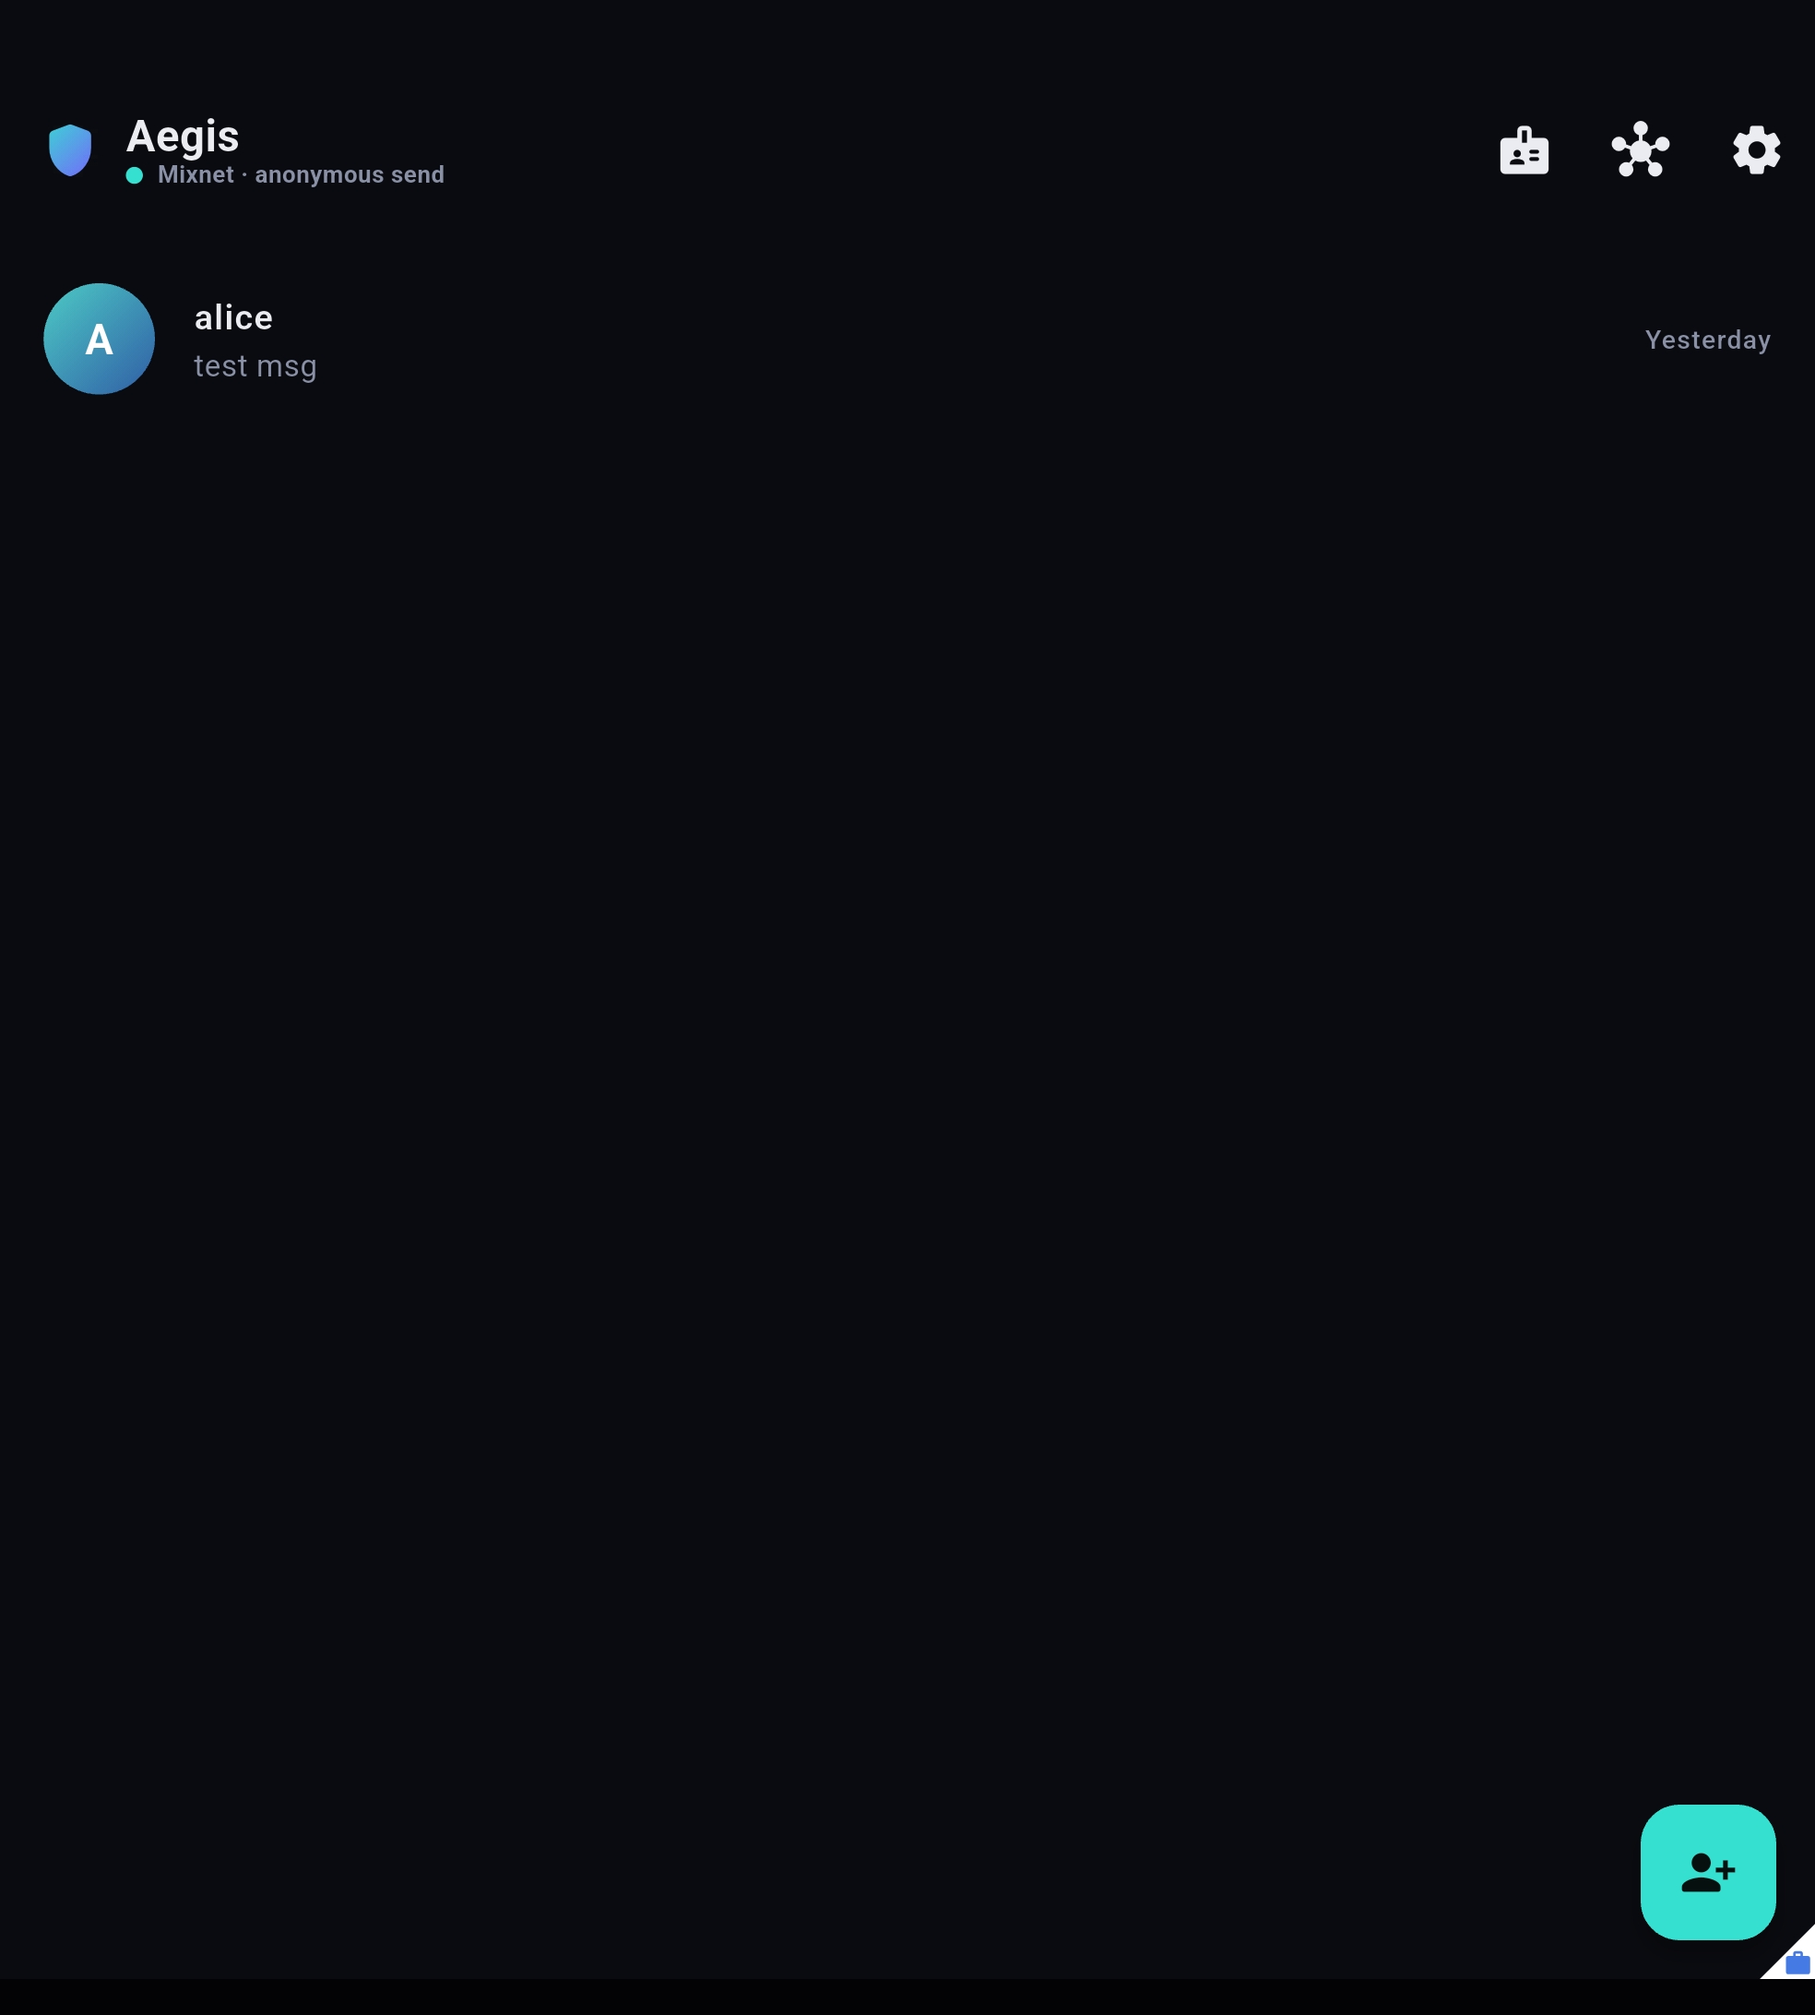
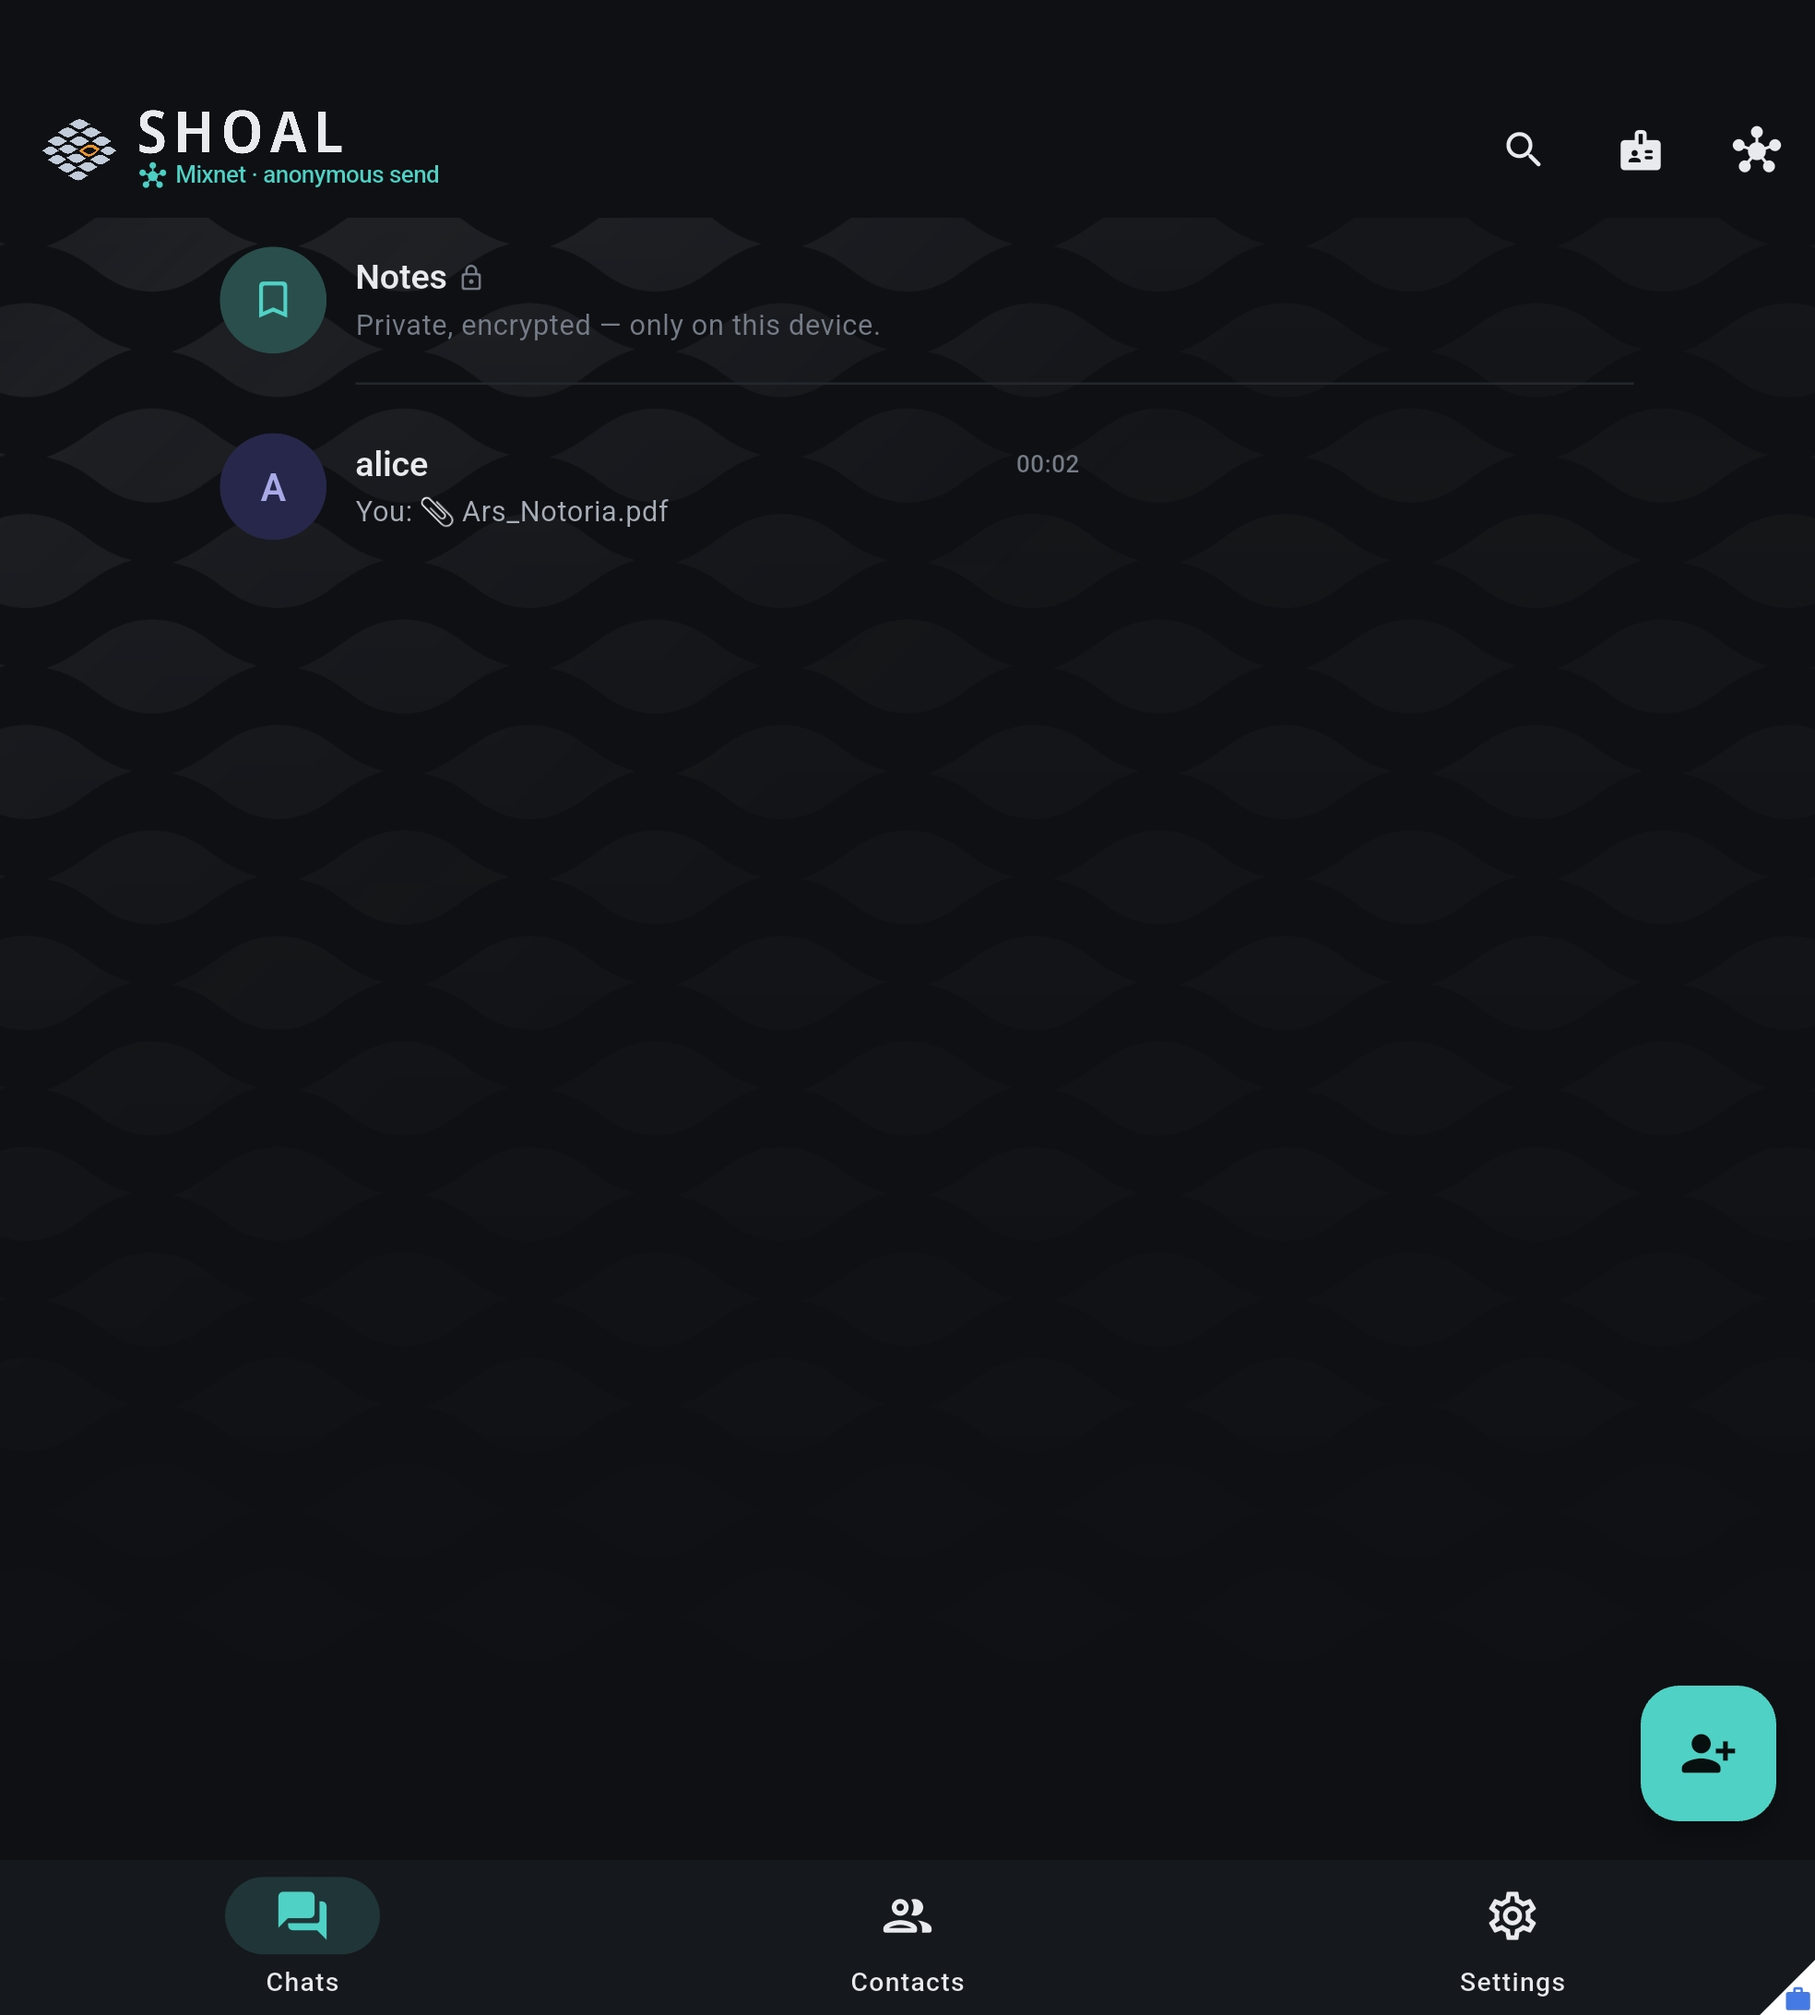
Refresh the screenshots, and fix the flare colour they exposed
Six new shots of the app as it actually is: the scale field, the bottom
bar, sectioned Settings, the mark on the lock screen. The old set still
showed the pre-rename UI, and three of its screens no longer exist in that
form -- Settings is sections now, not one long list -- so
settings-identity/privacy/security are replaced by settings.jpg, and
contacts.jpg and add-contact.jpg are added for the two screens that had
none.

All six are 1968x2184, which is what the markup already declares, so
nothing about the layout had to change.

The screenshots also showed me a bug. The flare in the scale field came out
TEAL, not amber: it was drawn in ShoalColor.accent, and the app's accent is
#4FD1C5 while the mark's amber is #F0972A. Teal is the one colour that cell
must never be -- the whole point of it is being the one fish that is not the
school, in the brand's colour rather than the interface's.

So the flare now uses a separate token, ShoalColor.markAccent. Keeping it
distinct from accent is the actual fix: accent is the interface's action
colour and is free to change with the theme, while this is the logo's
pigment and must not follow it.

One thing to know when reading these: docs/screenshots/contacts.jpg was
taken before that fix, so the flare in it is still teal. It is the clearest
picture of the feature working, and I would rather ship an honest slightly
stale image than pretend I could re-shoot a device I do not have.

diff --git a/docs/ru/index.html b/docs/ru/index.html
@@ -106,7 +106,7 @@
 
 <section id="shots">
   <h2>Приложение</h2>
-  <div class="shots"><figure><img src="../screenshots/chats.jpg" alt="Список переписок Shoal на Android" width="1968" height="2184" loading="lazy" decoding="async"></figure><figure><img src="../screenshots/settings-security.jpg" alt="Настройки безопасности Shoal: блокировка, пароль под принуждением, экстренное стирание" width="1968" height="2184" loading="lazy" decoding="async"></figure><figure><img src="../screenshots/settings-privacy.jpg" alt="Настройки приватности Shoal: цепочка Tor и SOCKS5, блокировка скриншотов" width="1968" height="2184" loading="lazy" decoding="async"></figure><figure><img src="../screenshots/nodes.jpg" alt="Вид сети Shoal со списком найденных микс-узлов" width="1968" height="2184" loading="lazy" decoding="async"></figure></div>
+  <div class="shots"><figure><img src="../screenshots/chats.jpg" alt="Список переписок Shoal на Android" width="1968" height="2184" loading="lazy" decoding="async"></figure><figure><img src="../screenshots/contacts.jpg" alt="Список контактов Shoal, у каждого показан его Shoal ID" width="1968" height="2184" loading="lazy" decoding="async"></figure><figure><img src="../screenshots/lock.jpg" alt="Экран блокировки Shoal: пароль, биометрия, удержание для стирания" width="1968" height="2184" loading="lazy" decoding="async"></figure><figure><img src="../screenshots/settings.jpg" alt="Настройки Shoal: код для обмена, безопасность, приватность, сеть" width="1968" height="2184" loading="lazy" decoding="async"></figure><figure><img src="../screenshots/add-contact.jpg" alt="Добавление контакта Shoal вставкой его кода" width="1968" height="2184" loading="lazy" decoding="async"></figure><figure><img src="../screenshots/nodes.jpg" alt="Вид сети Shoal со списком найденных микс-узлов" width="1968" height="2184" loading="lazy" decoding="async"></figure></div>
 </section>
 
 <section id="fdroid">

diff --git a/docs/index.html b/docs/index.html
@@ -106,7 +106,7 @@
 
 <section id="shots">
   <h2>The app</h2>
-  <div class="shots"><figure><img src="screenshots/chats.jpg" alt="The Shoal conversation list on Android" width="1968" height="2184" loading="lazy" decoding="async"></figure><figure><img src="screenshots/settings-security.jpg" alt="Shoal security settings: app lock, duress password, panic wipe" width="1968" height="2184" loading="lazy" decoding="async"></figure><figure><img src="screenshots/settings-privacy.jpg" alt="Shoal privacy settings: Tor and SOCKS5 proxy chain, screenshot blocking" width="1968" height="2184" loading="lazy" decoding="async"></figure><figure><img src="screenshots/nodes.jpg" alt="The Shoal network view, listing discovered mix nodes" width="1968" height="2184" loading="lazy" decoding="async"></figure></div>
+  <div class="shots"><figure><img src="screenshots/chats.jpg" alt="The Shoal conversation list on Android" width="1968" height="2184" loading="lazy" decoding="async"></figure><figure><img src="screenshots/contacts.jpg" alt="The Shoal contact list, each entry showing its Shoal ID" width="1968" height="2184" loading="lazy" decoding="async"></figure><figure><img src="screenshots/lock.jpg" alt="The Shoal lock screen: password, biometrics, hold to wipe" width="1968" height="2184" loading="lazy" decoding="async"></figure><figure><img src="screenshots/settings.jpg" alt="Shoal settings: share code, security, privacy, network" width="1968" height="2184" loading="lazy" decoding="async"></figure><figure><img src="screenshots/add-contact.jpg" alt="Adding a Shoal contact by pasting their share code" width="1968" height="2184" loading="lazy" decoding="async"></figure><figure><img src="screenshots/nodes.jpg" alt="The Shoal network view, listing discovered mix nodes" width="1968" height="2184" loading="lazy" decoding="async"></figure></div>
 </section>
 
 <section id="fdroid">

diff --git a/app/lib/design/tokens.dart b/app/lib/design/tokens.dart
@@ -51,6 +51,16 @@ class ShoalColor {
 
   /// The single accent: a restrained teal. Not neon, not a gradient.
   static const accent = Color(0xFF4FD1C5);
+
+  /// The mark's amber — the one fish that is not the school.
+  ///
+  /// Deliberately NOT [accent]. Accent is the interface's action colour and can
+  /// change with the theme; this is the logo's own pigment, and the scale
+  /// field's flare has to stay the colour the mark is drawn in. Using accent
+  /// there made the flare teal, which is the one thing it must never be: the
+  /// whole point of that cell is that it is not the same as everything around
+  /// it, in the brand's colour rather than the UI's.
+  static const markAccent = Color(0xFFF0972A);
   static const accentMuted = Color(0xFF2A4E4C);
 
   // Status. Used with an icon or label, never alone.

diff --git a/app/lib/brand.dart b/app/lib/brand.dart
@@ -363,8 +363,8 @@ class _AmberCell extends StatelessWidget {
               decoration: BoxDecoration(
                 gradient: RadialGradient(
                   colors: [
-                    ShoalColor.accent.withValues(alpha: 0.30),
-                    ShoalColor.accent.withValues(alpha: 0.0),
+                    ShoalColor.markAccent.withValues(alpha: 0.30),
+                    ShoalColor.markAccent.withValues(alpha: 0.0),
                   ],
                 ),
               ),
@@ -375,7 +375,7 @@ class _AmberCell extends StatelessWidget {
         // in the theme instead of in the PNG.
         ColorFiltered(
           colorFilter: const ColorFilter.mode(
-            ShoalColor.accent,
+            ShoalColor.markAccent,
             BlendMode.srcIn,
           ),
           child: Image.asset(

diff --git a/docs/build.py b/docs/build.py
@@ -209,8 +209,10 @@ LANGS = {
         ],
         "shots_h2": "The app",
         "shots": [("chats.jpg", "The Shoal conversation list on Android"),
-                  ("settings-security.jpg", "Shoal security settings: app lock, duress password, panic wipe"),
-                  ("settings-privacy.jpg", "Shoal privacy settings: Tor and SOCKS5 proxy chain, screenshot blocking"),
+                  ("contacts.jpg", "The Shoal contact list, each entry showing its Shoal ID"),
+                  ("lock.jpg", "The Shoal lock screen: password, biometrics, hold to wipe"),
+                  ("settings.jpg", "Shoal settings: share code, security, privacy, network"),
+                  ("add-contact.jpg", "Adding a Shoal contact by pasting their share code"),
                   ("nodes.jpg", "The Shoal network view, listing discovered mix nodes")],
         "node_h2": "Run a node",
         "node_lead": (
@@ -451,8 +453,10 @@ LANGS = {
         ],
         "shots_h2": "Приложение",
         "shots": [("chats.jpg", "Список переписок Shoal на Android"),
-                  ("settings-security.jpg", "Настройки безопасности Shoal: блокировка, пароль под принуждением, экстренное стирание"),
-                  ("settings-privacy.jpg", "Настройки приватности Shoal: цепочка Tor и SOCKS5, блокировка скриншотов"),
+                  ("contacts.jpg", "Список контактов Shoal, у каждого показан его Shoal ID"),
+                  ("lock.jpg", "Экран блокировки Shoal: пароль, биометрия, удержание для стирания"),
+                  ("settings.jpg", "Настройки Shoal: код для обмена, безопасность, приватность, сеть"),
+                  ("add-contact.jpg", "Добавление контакта Shoal вставкой его кода"),
                   ("nodes.jpg", "Вид сети Shoal со списком найденных микс-узлов")],
         "node_h2": "Поднять свой узел",
         "node_lead": (

diff --git a/README.md b/README.md
@@ -140,13 +140,13 @@ The Android app — Android-first, anonymous by default, private under pressure.
 <table>
   <tr>
     <td width="33%"><img src="docs/screenshots/chats.jpg" alt="Chats — Mixnet, anonymous send"/><br/><sub><b>Chats.</b> Anonymous send over the mixnet.</sub></td>
+    <td width="33%"><img src="docs/screenshots/contacts.jpg" alt="Contacts — each entry shows its Shoal ID"/><br/><sub><b>Contacts.</b> Every entry carries the Shoal ID it belongs to.</sub></td>
     <td width="33%"><img src="docs/screenshots/lock.jpg" alt="Lock screen — password, biometrics, hold to wipe"/><br/><sub><b>Lock screen.</b> Password or biometrics; hold to wipe everything.</sub></td>
-    <td width="33%"><img src="docs/screenshots/nodes.jpg" alt="Network nodes — add your own, route only through them"/><br/><sub><b>Nodes.</b> Add your own by host:port; route only through them.</sub></td>
   </tr>
   <tr>
-    <td width="33%"><img src="docs/screenshots/settings-identity.jpg" alt="Settings — profile, app password, duress password, biometric unlock"/><br/><sub><b>Identity & locks.</b> Share code, app password, duress/decoy, biometrics.</sub></td>
-    <td width="33%"><img src="docs/screenshots/settings-privacy.jpg" alt="Settings — recovery phrase, notifications, block screenshots, background, proxy/Tor"/><br/><sub><b>Privacy.</b> Recovery phrase, screenshot block, 24/7 background, SOCKS5/Tor.</sub></td>
-    <td width="33%"><img src="docs/screenshots/settings-security.jpg" alt="Settings — disguise, run a node, panic wipe, reset identity"/><br/><sub><b>Under pressure.</b> Disguise as a calculator, panic wipe, reset.</sub></td>
+    <td width="33%"><img src="docs/screenshots/settings.jpg" alt="Settings — share code, security, privacy, network"/><br/><sub><b>Settings.</b> Share code up top; the rest by section.</sub></td>
+    <td width="33%"><img src="docs/screenshots/add-contact.jpg" alt="Add contact — paste their share code"/><br/><sub><b>Add contact.</b> Swap codes both ways, then check the safety number.</sub></td>
+    <td width="33%"><img src="docs/screenshots/nodes.jpg" alt="Network nodes — add your own, route only through them"/><br/><sub><b>Nodes.</b> Add your own by host:port; route only through them.</sub></td>
   </tr>
 </table>
 
